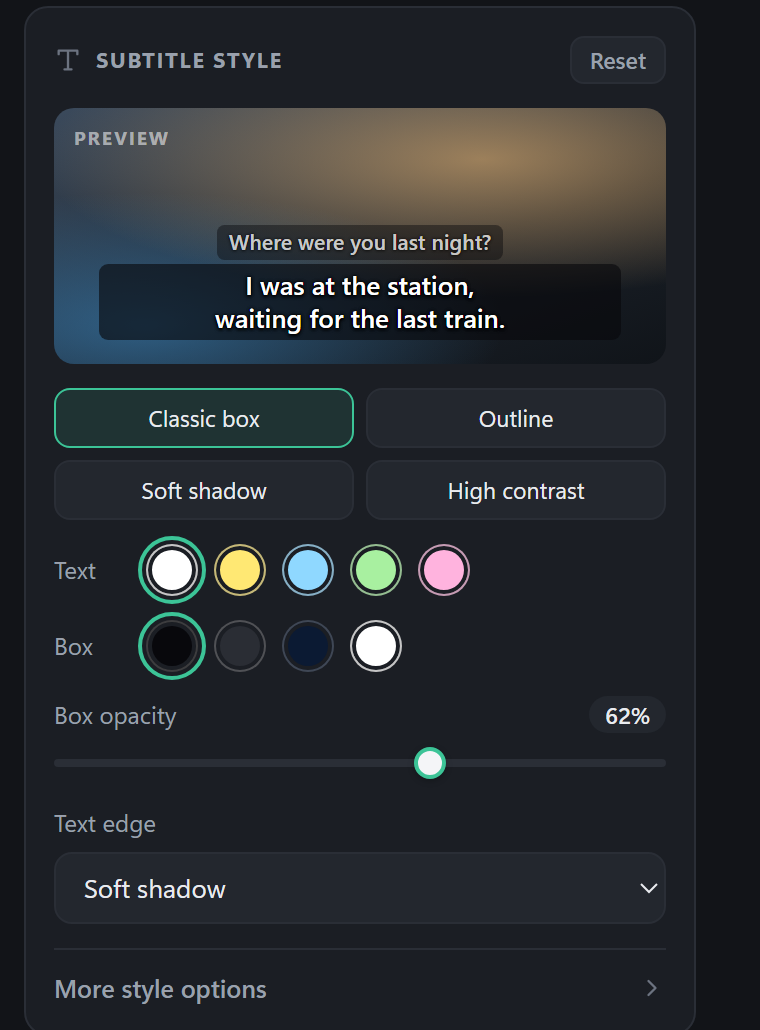
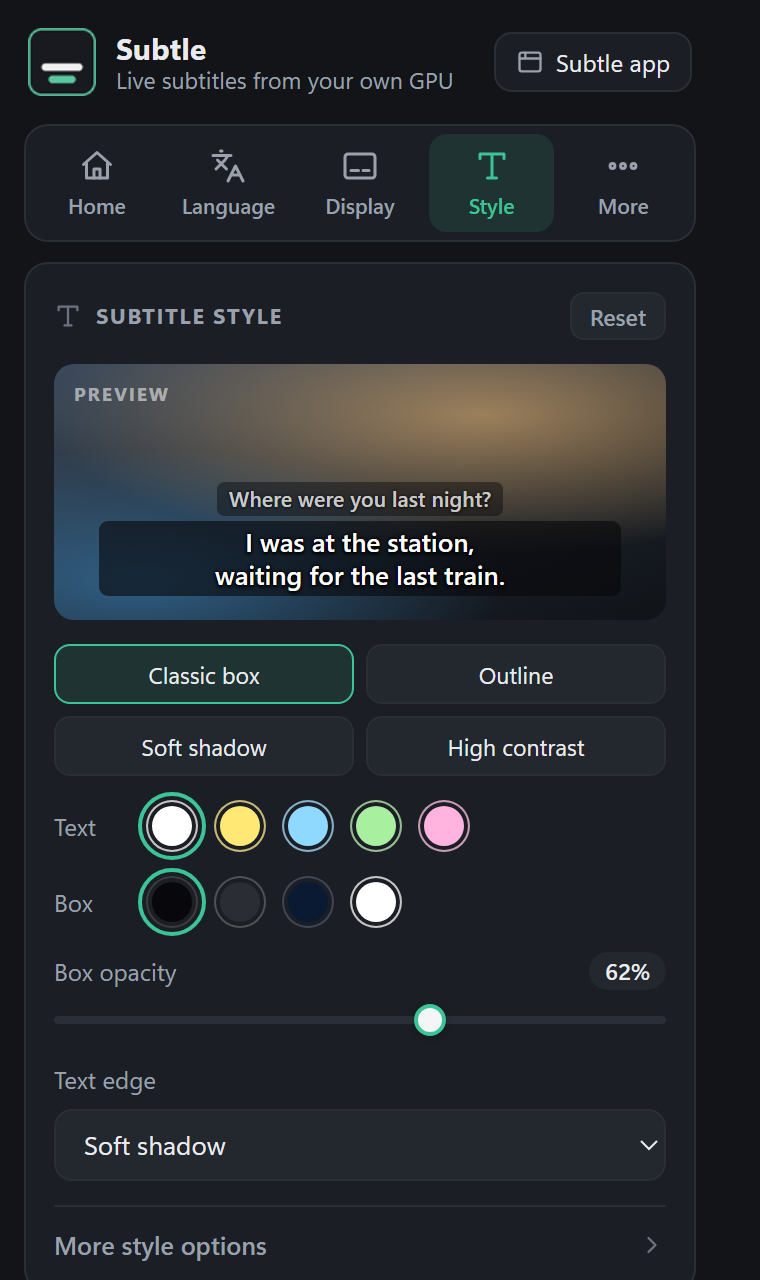
Subtle 0.9.0: one-click update, self-reloading extension, tabbed popup

diff --git a/extension/popup.html b/extension/popup.html
@@ -177,6 +177,39 @@
   details.more[open] summary .chev { transform: rotate(90deg); }
   details.more .inner { display: flex; flex-direction: column; gap: 12px; padding-top: 12px; }
 
+  /* Tabs */
+  .wrap { min-height: 540px; }          /* the popup keeps its size when switching tabs */
+  .tabs { display: grid; grid-template-columns: repeat(5, minmax(0, 1fr)); gap: 3px; padding: 4px;
+    background: var(--card); border: 1px solid var(--line); border-radius: var(--r); box-shadow: var(--shadow);
+    position: sticky; top: 0; z-index: 5; }
+  .tab { position: relative; display: flex; flex-direction: column; align-items: center; gap: 3px; padding: 7px 2px 6px;
+    border: 0; border-radius: 9px; background: transparent; color: var(--muted); font-size: 10.5px; font-weight: 600;
+    cursor: pointer; transition: background .15s ease, color .15s ease; }
+  .tab svg { width: 18px; height: 18px; }
+  .tab:hover { background: var(--field-hover); color: var(--fg); }
+  .tab.on { background: var(--accent-soft); color: var(--accent); }
+  .tab .dot { position: absolute; top: 6px; right: calc(50% - 15px); width: 7px; height: 7px; border-radius: 50%;
+    background: var(--ok); box-shadow: 0 0 0 2px var(--card); display: none; }
+  .tab.live .dot { display: block; }
+  .panel { display: none; flex-direction: column; gap: var(--gap); }
+  .panel.on { display: flex; animation: fadein .14s ease; }
+  @keyframes fadein { from { opacity: .4; transform: translateY(2px); } to { opacity: 1; transform: none; } }
+
+  /* Home: what the subtitles will be (opens the Language tab) */
+  .summary { display: flex; align-items: center; gap: 10px; width: 100%; padding: 9px 12px; border-radius: 10px;
+    border: 1px solid var(--line); background: var(--field); cursor: pointer; text-align: left; color: var(--fg); }
+  .summary:hover { background: var(--field-hover); }
+  .summary > svg:first-child { width: 17px; height: 17px; color: var(--accent); }
+  .summary .stxt { flex: 1; min-width: 0; display: flex; flex-direction: column; line-height: 1.3; }
+  .summary .stxt b { font-size: 12.5px; font-weight: 650; }
+  .summary .stxt small { font-size: 11.5px; color: var(--muted); overflow: hidden; text-overflow: ellipsis; white-space: nowrap; }
+  .summary .chev { width: 14px; height: 14px; color: var(--faint); }
+  .stack { display: flex; flex-direction: column; gap: 12px; }
+  .keys { display: grid; grid-template-columns: auto 1fr; gap: 7px 12px; align-items: center; font-size: 12px; }
+  .keys span:nth-child(odd) { display: flex; gap: 3px; }
+  .keys span:nth-child(even) { color: var(--muted); }
+  .ver { text-align: center; }
+
   /* Banner at the top: update available / app needs a restart */
   .banner { display: flex; align-items: center; gap: 10px; padding: 10px 12px; border-radius: var(--r);
     border: 1px solid var(--accent); background: var(--accent-soft); }
@@ -203,8 +236,6 @@
     color: var(--fg); font-size: 12px; font-weight: 600; cursor: pointer; }
   .fmt:hover { filter: brightness(1.08); }
 
-  footer { display: flex; flex-direction: column; align-items: center; gap: 4px; text-align: center; padding: 2px 4px 4px; }
-  footer .hint { margin: 0; }
   kbd { font: 10.5px ui-monospace, Consolas, monospace; padding: 1px 5px; border: 1px solid var(--line);
     border-bottom-width: 2px; border-radius: 5px; background: var(--card); color: var(--fg); }
 </style>
@@ -226,9 +257,23 @@
     <button id="bannerBtn" class="bbtn hidden"></button>
   </div>
 
+  <nav class="tabs" role="tablist">
+    <button class="tab" role="tab" data-tab="home" title="Home"><svg viewBox="0 0 24 24" fill="none" stroke="currentColor" stroke-width="2" stroke-linecap="round" stroke-linejoin="round"><path d="M3 11l9-8 9 8"/><path d="M5 10v10h14V10"/><path d="M10 20v-6h4v6"/></svg><span>Home</span><i class="dot"></i></button>
+    <button class="tab" role="tab" data-tab="lang" title="Language"><svg viewBox="0 0 24 24" fill="none" stroke="currentColor" stroke-width="2" stroke-linecap="round" stroke-linejoin="round"><path d="M5 8l6 6M4 14l6-6 2-3M2 5h12M7 2h1M22 22l-5-10-5 10M14 18h6"/></svg><span>Language</span><i class="dot"></i></button>
+    <button class="tab" role="tab" data-tab="display" title="Display"><svg viewBox="0 0 24 24" fill="none" stroke="currentColor" stroke-width="2" stroke-linecap="round" stroke-linejoin="round"><rect x="2" y="4" width="20" height="16" rx="2"/><path d="M6 15h5M14 15h4"/></svg><span>Display</span><i class="dot"></i></button>
+    <button class="tab" role="tab" data-tab="style" title="Style"><svg viewBox="0 0 24 24" fill="none" stroke="currentColor" stroke-width="2" stroke-linecap="round" stroke-linejoin="round"><path d="M4 7V4h16v3M9 20h6M12 4v16"/></svg><span>Style</span><i class="dot"></i></button>
+    <button class="tab" role="tab" data-tab="more" title="More"><svg viewBox="0 0 24 24" fill="none" stroke="currentColor" stroke-width="2" stroke-linecap="round" stroke-linejoin="round"><circle cx="5" cy="12" r="1.6"/><circle cx="12" cy="12" r="1.6"/><circle cx="19" cy="12" r="1.6"/></svg><span>More</span><i class="dot"></i></button>
+  </nav>
+
+  <div class="panel" data-tab="home" role="tabpanel">
   <section class="card">
     <div id="status" class="status"><i></i><span id="statusText">Not running</span></div>
     <button id="toggle" class="main"></button>
+    <button id="summary" class="summary" title="Languages and engine">
+      <svg viewBox="0 0 24 24" fill="none" stroke="currentColor" stroke-width="2" stroke-linecap="round" stroke-linejoin="round"><path d="M5 8l6 6M4 14l6-6 2-3M2 5h12M7 2h1M22 22l-5-10-5 10M14 18h6"/></svg>
+      <span class="stxt"><b id="sumLangs"></b><small id="sumEngine"></small></span>
+      <svg class="chev" viewBox="0 0 24 24" fill="none" stroke="currentColor" stroke-width="2" stroke-linecap="round" stroke-linejoin="round"><path d="M9 6l6 6-6 6"/></svg>
+    </button>
     <div class="tools extra" id="tools">
       <button id="catchUp" class="tool" title="A short summary of the last few minutes, shown on the video (Alt+Shift+U)">
         <svg viewBox="0 0 24 24" fill="none" stroke="currentColor" stroke-width="2" stroke-linecap="round" stroke-linejoin="round"><path d="M3 12a9 9 0 1 0 3-6.7L3 8"/><path d="M3 3v5h5M12 7v5l3 2"/></svg>
@@ -249,7 +294,9 @@
       <input id="autoStart" class="switch" type="checkbox" />
     </label>
   </section>
+  </div>
 
+  <div class="panel" data-tab="lang" role="tabpanel">
   <section class="card">
     <h2><svg viewBox="0 0 24 24" fill="none" stroke="currentColor" stroke-width="2" stroke-linecap="round" stroke-linejoin="round"><path d="M5 8l6 6M4 14l6-6 2-3M2 5h12M7 2h1M22 22l-5-10-5 10M14 18h6"/></svg>Translation</h2>
     <div class="langs">
@@ -272,7 +319,9 @@
     <label id="llmRow" class="field">Translator<select id="llmModel"></select></label>
     <p id="llmHint" class="hint hidden"></p>
   </section>
+  </div>
 
+  <div class="panel" data-tab="display" role="tabpanel">
   <section class="card">
     <h2><svg viewBox="0 0 24 24" fill="none" stroke="currentColor" stroke-width="2" stroke-linecap="round" stroke-linejoin="round"><rect x="2" y="4" width="20" height="16" rx="2"/><path d="M6 15h5M14 15h4"/></svg>Display</h2>
     <div class="two">
@@ -299,7 +348,9 @@
     </label>
     <label class="field extra hidden" id="readingRow">Japanese readings<select id="reading"></select></label>
   </section>
+  </div>
 
+  <div class="panel" data-tab="style" role="tabpanel">
   <section class="card" id="styleCard">
     <h2><svg viewBox="0 0 24 24" fill="none" stroke="currentColor" stroke-width="2" stroke-linecap="round" stroke-linejoin="round"><path d="M4 7V4h16v3M9 20h6M12 4v16"/></svg>Subtitle style
       <button id="styleReset" class="mini">Reset</button></h2>
@@ -338,7 +389,9 @@
       </div>
     </details>
   </section>
+  </div>
 
+  <div class="panel" data-tab="more" role="tabpanel">
   <section class="card">
     <h2><svg viewBox="0 0 24 24" fill="none" stroke="currentColor" stroke-width="2" stroke-linecap="round" stroke-linejoin="round"><path d="M12 22s8-4 8-10V5l-8-3-8 3v7c0 6 8 10 8 10z"/></svg>Privacy</h2>
     <label class="opt">
@@ -347,27 +400,29 @@
     </label>
   </section>
 
-  <details class="card">
-    <summary>
-      <svg viewBox="0 0 24 24" fill="none" stroke="currentColor" stroke-width="2" stroke-linecap="round" stroke-linejoin="round"><circle cx="12" cy="12" r="3"/><path d="M19.4 15a1.7 1.7 0 0 0 .3 1.8l.1.1a2 2 0 1 1-2.8 2.8l-.1-.1a1.7 1.7 0 0 0-1.8-.3 1.7 1.7 0 0 0-1 1.5V21a2 2 0 1 1-4 0v-.1a1.7 1.7 0 0 0-1.1-1.5 1.7 1.7 0 0 0-1.8.3l-.1.1a2 2 0 1 1-2.8-2.8l.1-.1a1.7 1.7 0 0 0 .3-1.8 1.7 1.7 0 0 0-1.5-1H3a2 2 0 1 1 0-4h.1a1.7 1.7 0 0 0 1.5-1.1 1.7 1.7 0 0 0-.3-1.8l-.1-.1a2 2 0 1 1 2.8-2.8l.1.1a1.7 1.7 0 0 0 1.8.3H9a1.7 1.7 0 0 0 1-1.5V3a2 2 0 1 1 4 0v.1a1.7 1.7 0 0 0 1 1.5 1.7 1.7 0 0 0 1.8-.3l.1-.1a2 2 0 1 1 2.8 2.8l-.1.1a1.7 1.7 0 0 0-.3 1.8V9a1.7 1.7 0 0 0 1.5 1H21a2 2 0 1 1 0 4h-.1a1.7 1.7 0 0 0-1.5 1z"/></svg>
-      Advanced
-      <svg class="chev" viewBox="0 0 24 24" fill="none" stroke="currentColor" stroke-width="2" stroke-linecap="round" stroke-linejoin="round"><path d="M9 6l6 6-6 6"/></svg>
-    </summary>
-    <div class="inner">
+  <section class="card">
+    <h2><svg viewBox="0 0 24 24" fill="none" stroke="currentColor" stroke-width="2" stroke-linecap="round" stroke-linejoin="round"><path d="M4 21v-7M4 10V3M12 21v-9M12 8V3M20 21v-5M20 12V3M1 14h6M9 8h6M17 16h6"/></svg>Connection</h2>
+    <div class="stack">
       <label class="field">Subtitle server<input id="server" type="text" spellcheck="false" /></label>
       <button id="refresh" class="iconbtn">
         <svg viewBox="0 0 24 24" fill="none" stroke="currentColor" stroke-width="2" stroke-linecap="round" stroke-linejoin="round"><path d="M21 12a9 9 0 1 1-3-6.7L21 8"/><path d="M21 3v5h-5"/></svg>
         Refresh model lists
       </button>
     </div>
-  </details>
+  </section>
 
-  <footer>
-    <p class="hint">Start/stop anywhere: <kbd>Alt</kbd> <kbd>Shift</kbd> <kbd>S</kbd></p>
-    <p class="hint extra"><kbd>H</kbd> hide · <kbd>L</kbd> last line again · <kbd>U</kbd> catch me up (with <kbd>Alt</kbd> <kbd>Shift</kbd>)</p>
-    <p class="hint extra">Drag the subtitles on the video to move them; double-click puts them back.</p>
-    <p id="version" class="hint"></p>
-  </footer>
+  <section class="card">
+    <h2><svg viewBox="0 0 24 24" fill="none" stroke="currentColor" stroke-width="2" stroke-linecap="round" stroke-linejoin="round"><rect x="2" y="6" width="20" height="12" rx="2"/><path d="M6 10h.01M10 10h.01M14 10h.01M18 10h.01M7 14h10"/></svg>Shortcuts</h2>
+    <div class="keys">
+      <span><kbd>Alt</kbd><kbd>Shift</kbd><kbd>S</kbd></span><span>Start or stop subtitles</span>
+      <span class="extra"><kbd>Alt</kbd><kbd>Shift</kbd><kbd>H</kbd></span><span class="extra">Hide or show them</span>
+      <span class="extra"><kbd>Alt</kbd><kbd>Shift</kbd><kbd>L</kbd></span><span class="extra">Show the last line again</span>
+      <span class="extra"><kbd>Alt</kbd><kbd>Shift</kbd><kbd>U</kbd></span><span class="extra">Catch me up</span>
+    </div>
+    <p class="hint extra">Drag the subtitles on the video to move them; double-click puts them back. Change keys at <b>chrome://extensions/shortcuts</b>.</p>
+  </section>
+  <p id="version" class="hint ver"></p>
+  </div>
 </div>
 <script src="substyle.js"></script>
 <script src="popup.js"></script>

diff --git a/extension/popup.js b/extension/popup.js
@@ -77,6 +77,37 @@ function fillSelect(sel, items, value) {
 
 const shortName = (id) => id.split("/").pop();
 
+// ---- tabs ----------------------------------------------------------------------
+function showTab(key) {
+  for (const t of document.querySelectorAll(".tab")) {
+    const on = t.dataset.tab === key;
+    t.classList.toggle("on", on);
+    t.setAttribute("aria-selected", on ? "true" : "false");
+  }
+  for (const p of document.querySelectorAll(".panel")) p.classList.toggle("on", p.dataset.tab === key);
+  try {
+    chrome.storage.local.set({ popupTab: key }).catch(() => {});
+  } catch {}
+}
+
+async function initTabs() {
+  for (const t of document.querySelectorAll(".tab")) t.onclick = () => showTab(t.dataset.tab);
+  let key = "home";
+  try {
+    key = (await chrome.storage.local.get({ popupTab: "home" })).popupTab || "home";
+  } catch {}
+  showTab(document.querySelector(`.tab[data-tab="${key}"]`) ? key : "home");
+}
+
+// Home: "Japanese -> English" and the engine, at a glance (click: the Language tab)
+function renderSummary() {
+  const name = (list, code) => (list.find(([c]) => c === code) || [code, code])[1];
+  $("sumLangs").textContent = `${name(SPOKEN, s.language)} → ${name(TARGETS, s.target)}`;
+  const llm = s.mode === "llm" || s.target !== "en";
+  const model = s.asrModel && s.asrModel !== "auto" ? ` · ${shortName(s.asrModel)}` : "";
+  $("sumEngine").textContent = (llm ? "Best engine (speech model + translator)" : "Fast engine (Whisper only)") + model;
+}
+
 // ---- status / start-stop -------------------------------------------------------
 async function refreshStatus() {
   const state = await chrome.runtime.sendMessage({ cmd: "status" });
@@ -89,6 +120,8 @@ async function refreshStatus() {
     : elsewhere
       ? "Running on another tab"
       : "Not running";
+  const homeTab = document.querySelector('.tab[data-tab="home"]');
+  if (homeTab) homeTab.classList.toggle("live", here && state.status === "live");
   const btn = $("toggle");
   btn.classList.toggle("stop", here);
   btn.innerHTML = here ? `${STOP_ICON}Stop subtitles` : `${PLAY_ICON}Start subtitles on this tab`;
@@ -259,6 +292,7 @@ function renderModels() {
 }
 
 function renderMode() {
+  renderSummary();
   const llm = s.mode === "llm" || s.target !== "en";
   $("modeWhisper").classList.toggle("on", !llm);
   $("modeLlm").classList.toggle("on", llm);
@@ -501,7 +535,10 @@ async function init() {
     save({ mode: "llm" });
     renderMode();
   };
-  $("asrModel").onchange = (e) => save({ asrModel: e.target.value });
+  $("asrModel").onchange = (e) => {
+    save({ asrModel: e.target.value });
+    renderSummary();
+  };
   $("llmModel").onchange = (e) => save({ llmModel: e.target.value });
   const saveSize = throttle((v) => save({ fontScale: v }), 500);
   const savePos = throttle((v) => save({ position: v }), 500);
@@ -543,6 +580,7 @@ async function init() {
     } catch {}
   };
   $("toggle").onclick = toggle;
+  $("summary").onclick = () => showTab("lang");
   $("catchUp").onclick = async () => {
     await chrome.runtime.sendMessage({ cmd: "catch-up", tabId: tab.id }).catch(() => {});
     window.close(); // the summary appears on the video
@@ -556,6 +594,7 @@ async function init() {
   chrome.runtime.onMessage.addListener((msg) => {
     if (msg.cmd === "capture-status") setTimeout(refreshStatus, 50);
   });
+  await initTabs();
   renderMode();
   renderVersion();
   refreshStatus();

diff --git a/installer/apply_update.py b/installer/apply_update.py
@@ -159,7 +159,10 @@ def main():
         say("The old version is back.")
         start_subtle()
         if sys.platform == "win32":
-            input("Press Enter to close this window.")
+            try:
+                input("Press Enter to close this window.")
+            except EOFError:
+                pass
         return 1
 
     say(f"Subtle {ver} is installed. Starting it...")

diff --git a/README.md b/README.md
@@ -66,7 +66,7 @@ after the speaker stopped:
   </tr>
   <tr>
     <td><b>Subtle app.</b> Status, subtitle delay in milliseconds, and exactly how much memory each part uses.</td>
-    <td><b>Browser extension.</b> One button to start, pick the languages and the engine.</td>
+    <td><b>Browser extension.</b> Five tabs: start and tools, languages, display, style and more.</td>
   </tr>
   <tr>
     <td><img src="docs/images/app-models.png" alt="Models page with recommended downloads for your graphics card"></td>
@@ -304,8 +304,7 @@ Subtle only uses memory while you're actually watching something with subtitles:
 | Installer: "NVIDIA driver too old" | Update it from [nvidia.com/drivers](https://www.nvidia.com/drivers) or the NVIDIA app, then run `Install Subtle.bat` again. |
 | Anything else | Subtle window → Settings → **Show activity log**, and the install log in `logs\install.log`. |
 
-**Update:** the Subtle window tells you when a new version is out. Replace the Subtle files with the new version (keep `models\`, `runtime\` and
-`settings.json`), run `Install Subtle.bat` again, and reload the extension in `chrome://extensions`.
+**Update:** when a new version is out, the Subtle window and the extension popup show **Update now**. One click downloads it (checked against GitHub's checksum), keeps your models and settings, and restarts Subtle; if anything goes wrong, the old version is put back. The browser extension reloads itself afterwards. Coming from 0.5-0.8, update by hand once: replace the Subtle files with the new version (keep `models\`, `runtime\` and `settings.json`), run `Install Subtle.bat` again, and reload the extension in `chrome://extensions`.
 
 **Uninstall:** quit Subtle (tray icon → Quit), untick "Start with Windows" if you turned it on,
 delete the Subtle folder and the two shortcuts, and remove the extension from the browser.

diff --git a/CHANGELOG.md b/CHANGELOG.md
@@ -5,6 +5,21 @@ the format is based on [Keep a Changelog](https://keepachangelog.com/).
 
 ## [Unreleased]
 
+## [0.9.0] - 2026-11-12
+
+### Added
+- **Update now**: one click in the Subtle window or the extension popup downloads the new version, checks
+  it against the checksum GitHub publishes, keeps models and settings, installs new packages if needed,
+  and restarts Subtle. If anything fails, the old version is put back. (Updating from 0.5-0.8 is by hand
+  once.)
+- The browser extension **reloads itself** after an update (no more `chrome://extensions` step).
+
+### Changed
+- The extension popup is now **five tabs** with icons (Home, Language, Display, Style, More) instead of one
+  long list. Home shows what the subtitles will be ("Japanese → English, Best engine") at a glance.
+- Update notices and "restart the Subtle app" messages appear as a banner at the top of the popup.
+
+
 ## [0.8.0] - 2026-11-12
 
 ### Added
@@ -88,7 +103,8 @@ First public release.
 - Only one speech model in memory at a time; the translator only runs for the Best engine.
 - Best engine (Whisper turbo + Qwen3 4B) uses about 5.7 GB of video memory; Fast about 4.1 GB.
 
-[Unreleased]: https://github.com/ddsaamir/subtle/compare/v0.8.0...HEAD
+[Unreleased]: https://github.com/ddsaamir/subtle/compare/v0.9.0...HEAD
+[0.9.0]: https://github.com/ddsaamir/subtle/compare/v0.8.0...v0.9.0
 [0.8.0]: https://github.com/ddsaamir/subtle/compare/v0.7.0...v0.8.0
 [0.7.0]: https://github.com/ddsaamir/subtle/compare/v0.6.0...v0.7.0
 [0.6.0]: https://github.com/ddsaamir/subtle/compare/v0.5.0...v0.6.0
